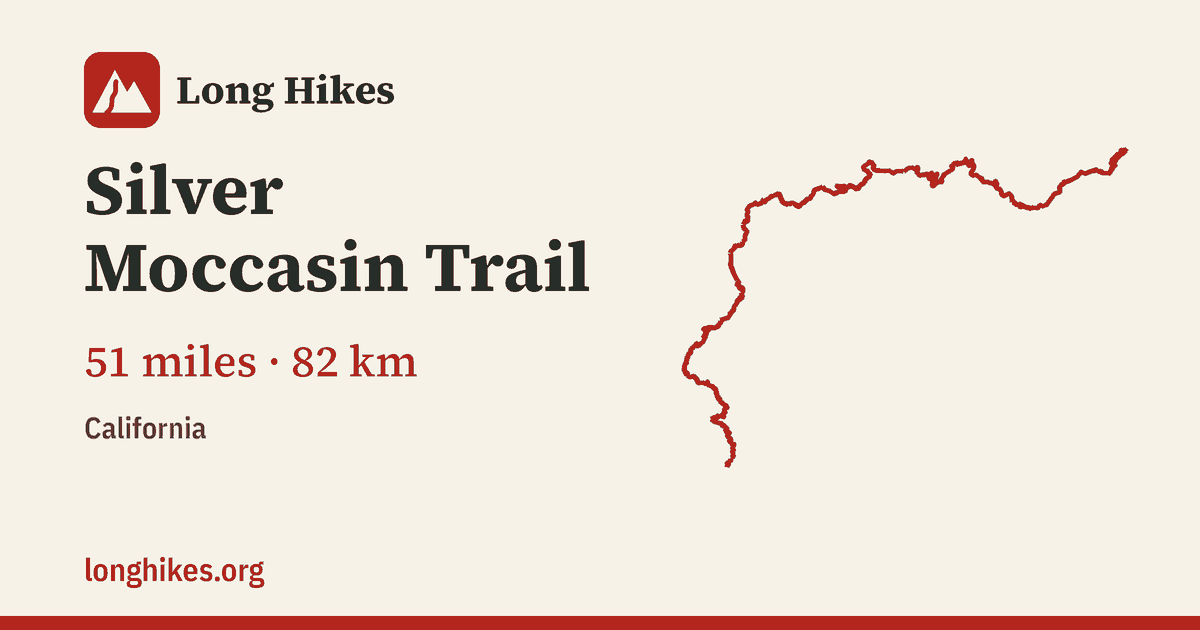
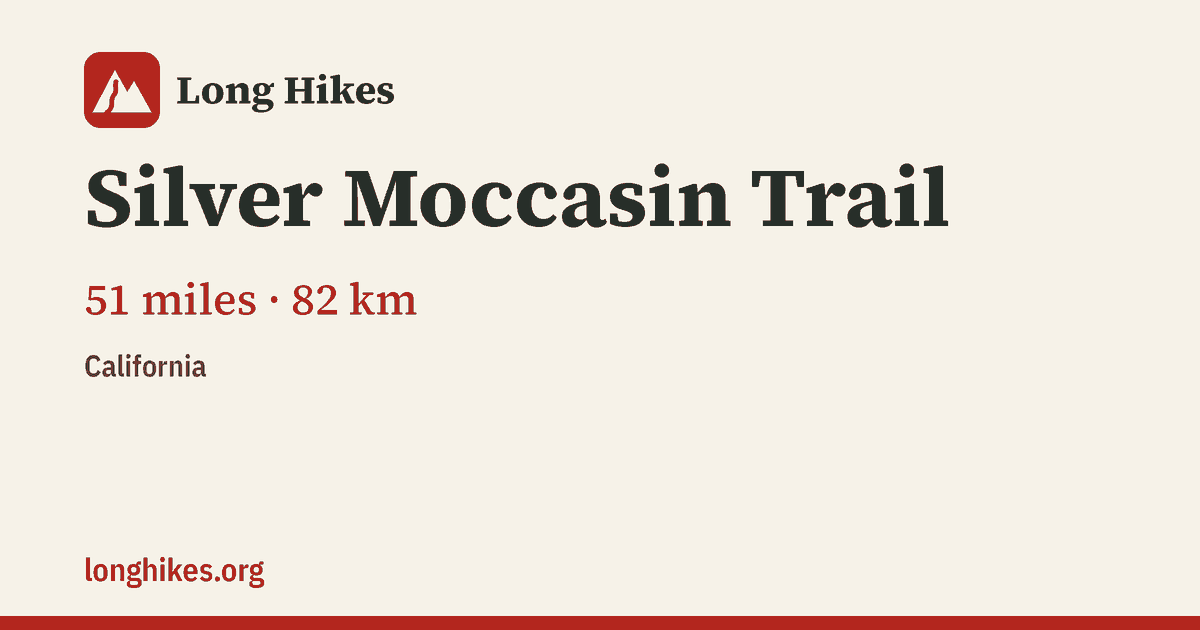
Correct stale, contradictory and wrong statements in records

diff --git a/SOURCES.md b/SOURCES.md
@@ -1,12 +1,12 @@
 # Sources
 
-Each trail's record (`<id>/trail.toml`) names its source, the page to ask for the track, and the terms that apply. This file collects the distinct terms, the sentence that states them, the page they were read on, and the date read. Dates read: records were first read on 2026-11-08; the licence pages below were read again on 2026-11-09; 40 designated records and 34 person-defined routes were added and read on 2026-11-10.
+Each trail's record (`<id>/trail.toml`) names its source, the page to ask for the track, and the terms that apply. This file collects the distinct terms, the sentence that states them, the page they were read on, and the date read. Dates read: records were first read on 2026-11-08; the licence pages below were read again on 2026-11-09; 40 designated records and 34 person-defined routes were added and read on 2026-11-10; records added after that were read on the day each was added, which its `source.source_checked` gives.
 
 A track is included in this repository only when its source's terms allow redistribution. Where they do not, the trail is a record only and `source.line_absent_reason` in its record says why.
 
 ## OpenStreetMap (ODbL-1.0)
 
-Used by: 109 trails with an included track, and part of the Colorado Trail track (about 38 km; the rest is United States Forest Service data). Also named as the recorded source for 2 record-only trails, where no track was downloaded or none was usable. One of the person-defined routes has a track from OpenStreetMap (the Big SEKI Loop, relation 11628437); the other 49 name no source licence for a track.
+Used by: 105 trails with an included track, among them the Colorado Trail, whose track is also about 95% United States Forest Service data and is labelled ODbL as a whole. Also named as the recorded source for 1 record-only trail, where no track was downloaded or none was usable. One of the person-defined routes has a track from OpenStreetMap (the Big SEKI Loop, relation 11628437); the other 72 name no source licence for a track.
 
 Quoted terms: "You are free to copy, distribute, transmit and adapt our data, as long as you credit OpenStreetMap and its contributors."
 
@@ -14,7 +14,7 @@ Page: https://www.openstreetmap.org/copyright (read 2026-11-09). Full text: LICE
 
 ## United States federal agencies (public domain)
 
-Publishers: National Park Service, USDA Forest Service and Bureau of Land Management services named in each record. Used by: 18 trails with an included track (Alpine Trail #7, Appalachian, Black Canyon, Colorado Trail in part, Fremont, General George Crook, Highline, Middle Fork Trail, Natchez Trace, New England, North Umpqua, Pacific Northwest, Potomac Heritage, Selway River Trail, Solitude Loop, Teton Crest Trail, Thorofare and South Boundary Trail, Toiyabe Crest).
+Publishers: National Park Service, USDA Forest Service and Bureau of Land Management services named in each record. Used by: 15 trails with an included track and the Colorado Trail in part (Alpine Trail #7, Appalachian, Black Canyon, Colorado Trail in part, Fremont, General George Crook, Highline, Middle Fork Trail, New England, North Umpqua, Pacific Northwest, Selway River Trail, Solitude Loop, Teton Crest Trail, Thorofare and South Boundary Trail, Toiyabe Crest).
 
 Quoted terms: "Data and content created by government employees within the scope of their employment are not subject to domestic copyright protection under 17 U.S.C. 105."
 
@@ -108,7 +108,7 @@ Page: the creator's or publisher's own page for the guide, given in each record'
 | chinese-wall-circuit | Wilderness Mindset (publishes the route) | [source page](https://wildernessmindset.com/bob-marshall-wilderness-chinese-wall-circuit/) | none-stated | record only |
 | circle-of-solitude | Wilderness Press (publishes the route in the guidebook) | [source page](https://shop.adventurewithkeen.com/wilderness-press/) | none-stated | record only |
 | cohos | Cohos Trail Association (publishes the trail; no open geometry found) | [source page](https://www.openstreetmap.org/relation/14765821) | ODbL-1.0 | track |
-| colorado-trail | USDA Forest Service (EDW National Forest System trails), with OpenStreetMap where the Forest Service publishes no segment | [source page](https://apps.fs.usda.gov/arcx/rest/services/EDW/EDW_TrailNFSPublish_01/MapServer/0) | us-gov-public-domain | track |
+| colorado-trail | USDA Forest Service (EDW National Forest System trails), with OpenStreetMap where the Forest Service publishes no segment | [source page](https://apps.fs.usda.gov/arcx/rest/services/EDW/EDW_TrailNFSPublish_01/MapServer/0) | ODbL-1.0 | track |
 | condor-trail | Condor Trail Association (publishes the route) | [source page](http://www.condortrail.com/maps-trail-descriptions/) | none-stated | record only |
 | conestoga-trail | Lancaster Hiking Club (publishes the trail; no open geometry found) | [source page](https://www.openstreetmap.org/relation/6827091) | ODbL-1.0 | track |
 | conservation-trail | Foothills Trail Club of Western New York (built and maintains the trail) | [source page](https://sites.google.com/view/foothillstrailclub/about-the-trail) | none-stated | record only |

diff --git a/CHANGELOG.md b/CHANGELOG.md
@@ -1,5 +1,15 @@
 # Changelog
 
+## 2026-11-19 - Stale, contradictory and wrong statements corrected
+
+- The Kekekabic, Pukaskwa Coastal, Teton Crest, Timberline and West Coast trails are no longer marked as held, so their pages no longer say that something is not settled with no note saying what. The word "Held." is gone from the notes of the Allegheny and Ganaraska trails.
+- The Bayou State Trail's caution about the Hwy 182 bridge now says when the association's page was read and that the notice carries no date. The Silver Moccasin Trail's caution now gives the date of the Forest Service alert it reports.
+- The Fundy Footpath stays in the left-out list, now with the 64.3 km (about 40 miles) its association gives, which is still under the 50 mile floor.
+- The Ice Age Trail summary now says about 1,200 miles, as its length does. The Circle of Solitude has a summary. The Oregon Desert Trail's length is now 1,207 km, the association's 750 miles, and shows as 750 miles.
+- The Colorado Trail's track is now labelled ODbL as a whole, because about 38 km of it is from OpenStreetMap; its record says which part is public domain.
+- Eleven records (Alpine Trail #7, Backbone, Black Canyon, Fremont, General George Crook, Highline, John Muir, Middle Fork, North Umpqua, Solitude Loop and Toiyabe Crest) no longer say their track was only found: it was downloaded and is published.
+- `SOURCES.md` no longer lists the Natchez Trace and Potomac Heritage trails as included, and its counts match the records. The Rae Lakes Loop's measured length is now 57.6 km, the length of its track file.
+
 ## 2026-11-19 - Teton Crest Trail has a track
 
 - The Teton Crest Trail page now shows a track, 58.7 km (36.5 mi) from Phillips Pass to String Lake in Grand Teton National Park, in place of the notice that it had none. The track is built from the National Park Service's and the Forest Service's public trail data, both public domain: the stretches the agencies label Teton Crest Trail, joined by the Middle Fork Granite Canyon, Fox Creek Pass, Death Canyon Shelf, Hurricane Pass, South Fork and North Fork Cascade Canyon, Paintbrush Canyon and String Lake trails, along the route the Park Service describes.

diff --git a/README.md b/README.md
@@ -70,7 +70,7 @@ A trail may be listed with no track included, when no track for it may be shared
 | canol | Canol Heritage Trail | CA | NT | 371 | yes | ODbL-1.0 |
 | centennial-sd | Centennial Trail | US | SD | 179 | yes | ODbL-1.0 |
 | cohos | Cohos Trail | US | NH | 270 | yes | ODbL-1.0 |
-| colorado-trail | Colorado Trail | US | CO | 782 | yes | us-gov-public-domain |
+| colorado-trail | Colorado Trail | US | CO | 782 | yes | ODbL-1.0 |
 | conestoga-trail | Conestoga Trail | US | PA | 103 | yes | ODbL-1.0 |
 | conservation-trail | Conservation Trail | US | NY | 285 | no | none-stated |
 | continental-divide | Continental Divide National Scenic Trail | US | NM, CO, WY, ID, MT | 4989 | yes | CC-BY |
@@ -139,7 +139,7 @@ A trail may be listed with no track included, when no track for it may be shared
 | oak-ridges | Oak Ridges Trail | CA | ON | 270 | yes | ODbL-1.0 |
 | ocean-to-lake | Ocean to Lake Hiking Trail | US | FL | 99 | yes | ODbL-1.0 |
 | oregon-coast | Oregon Coast Trail | US | OR | 650 | yes | ODbL-1.0 |
-| oregon-desert | Oregon Desert Trail | US | OR | 1200 | no | ODbL-1.0 |
+| oregon-desert | Oregon Desert Trail | US | OR | 1207 | no | ODbL-1.0 |
 | ottawa-temiskaming-highland-trail | Ottawa-Temiskaming Highland Trail | CA | ON | 142 | no | none-stated |
 | ouachita | Ouachita National Recreation Trail | US | AR, OK | 359 | yes | ODbL-1.0 |
 | ozark-highlands | Ozark Highlands Trail | US | AR | 523 | yes | ODbL-1.0 |
